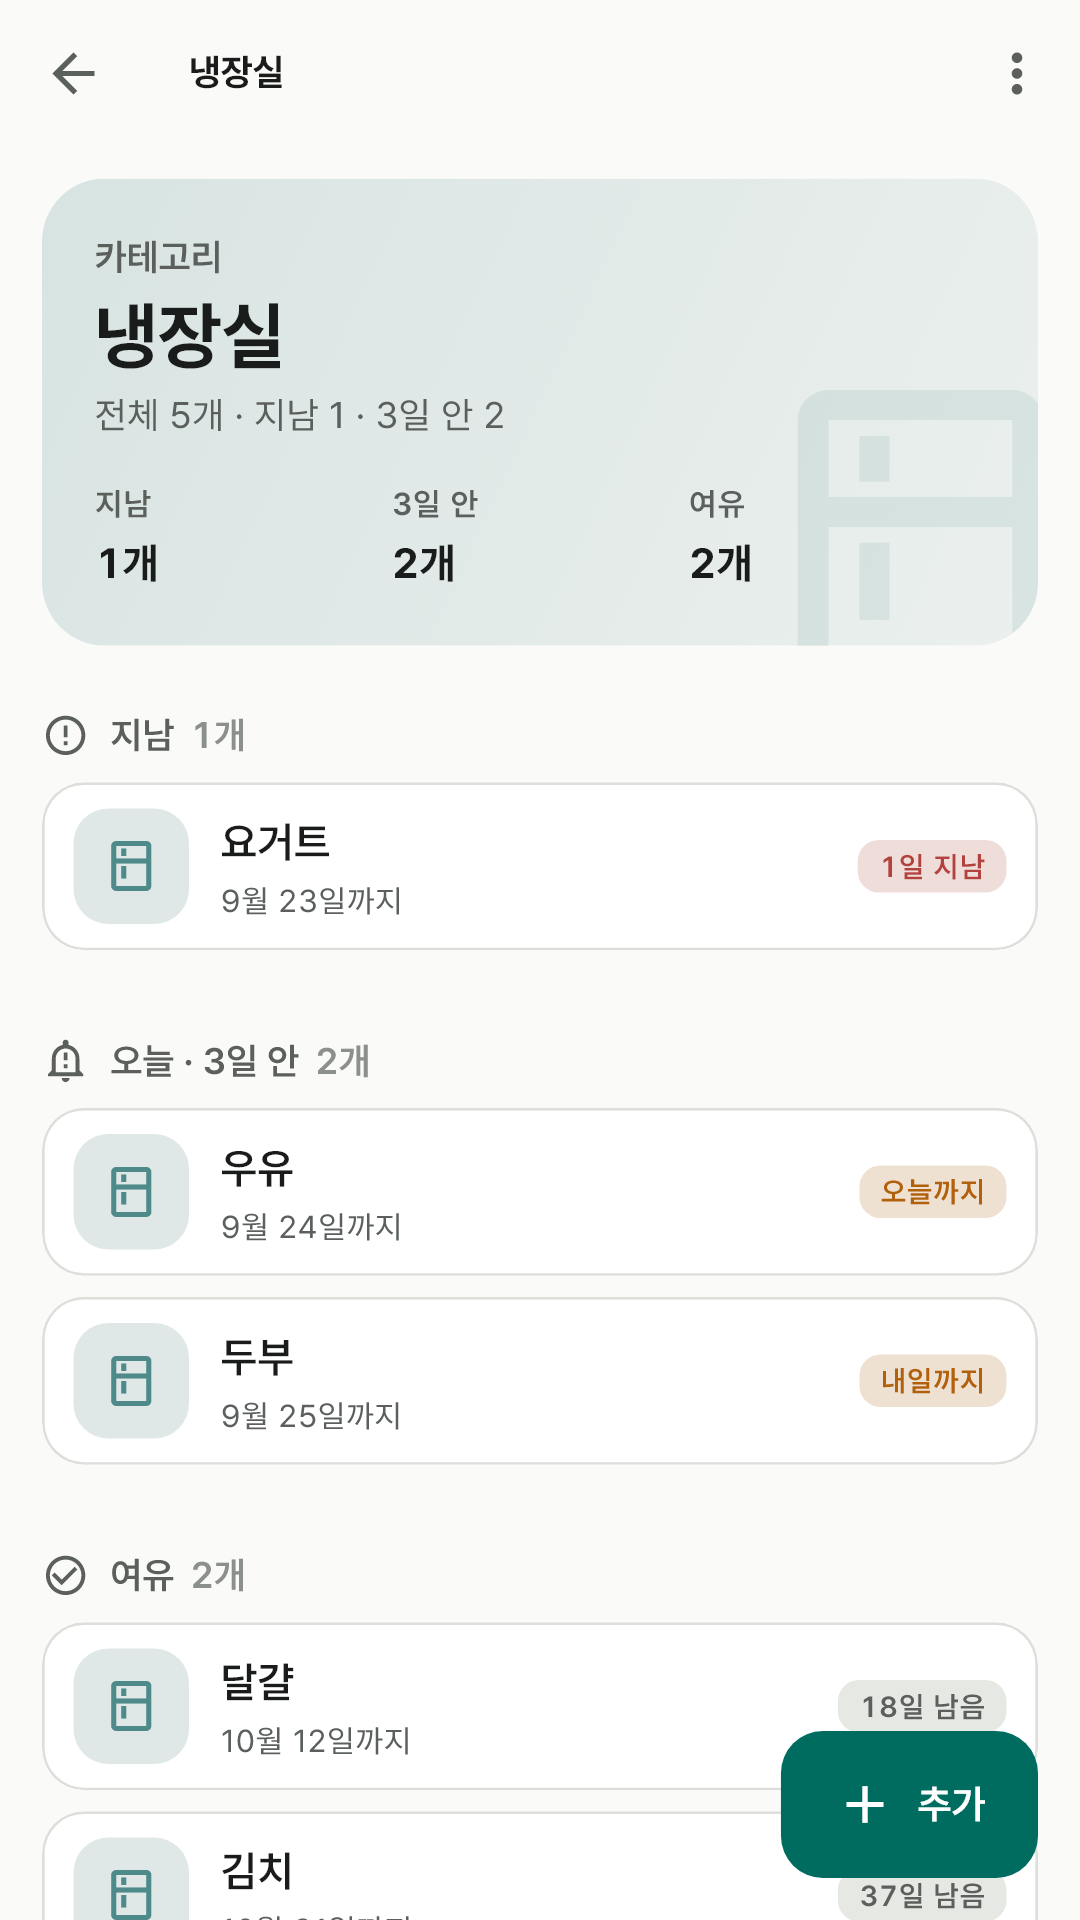
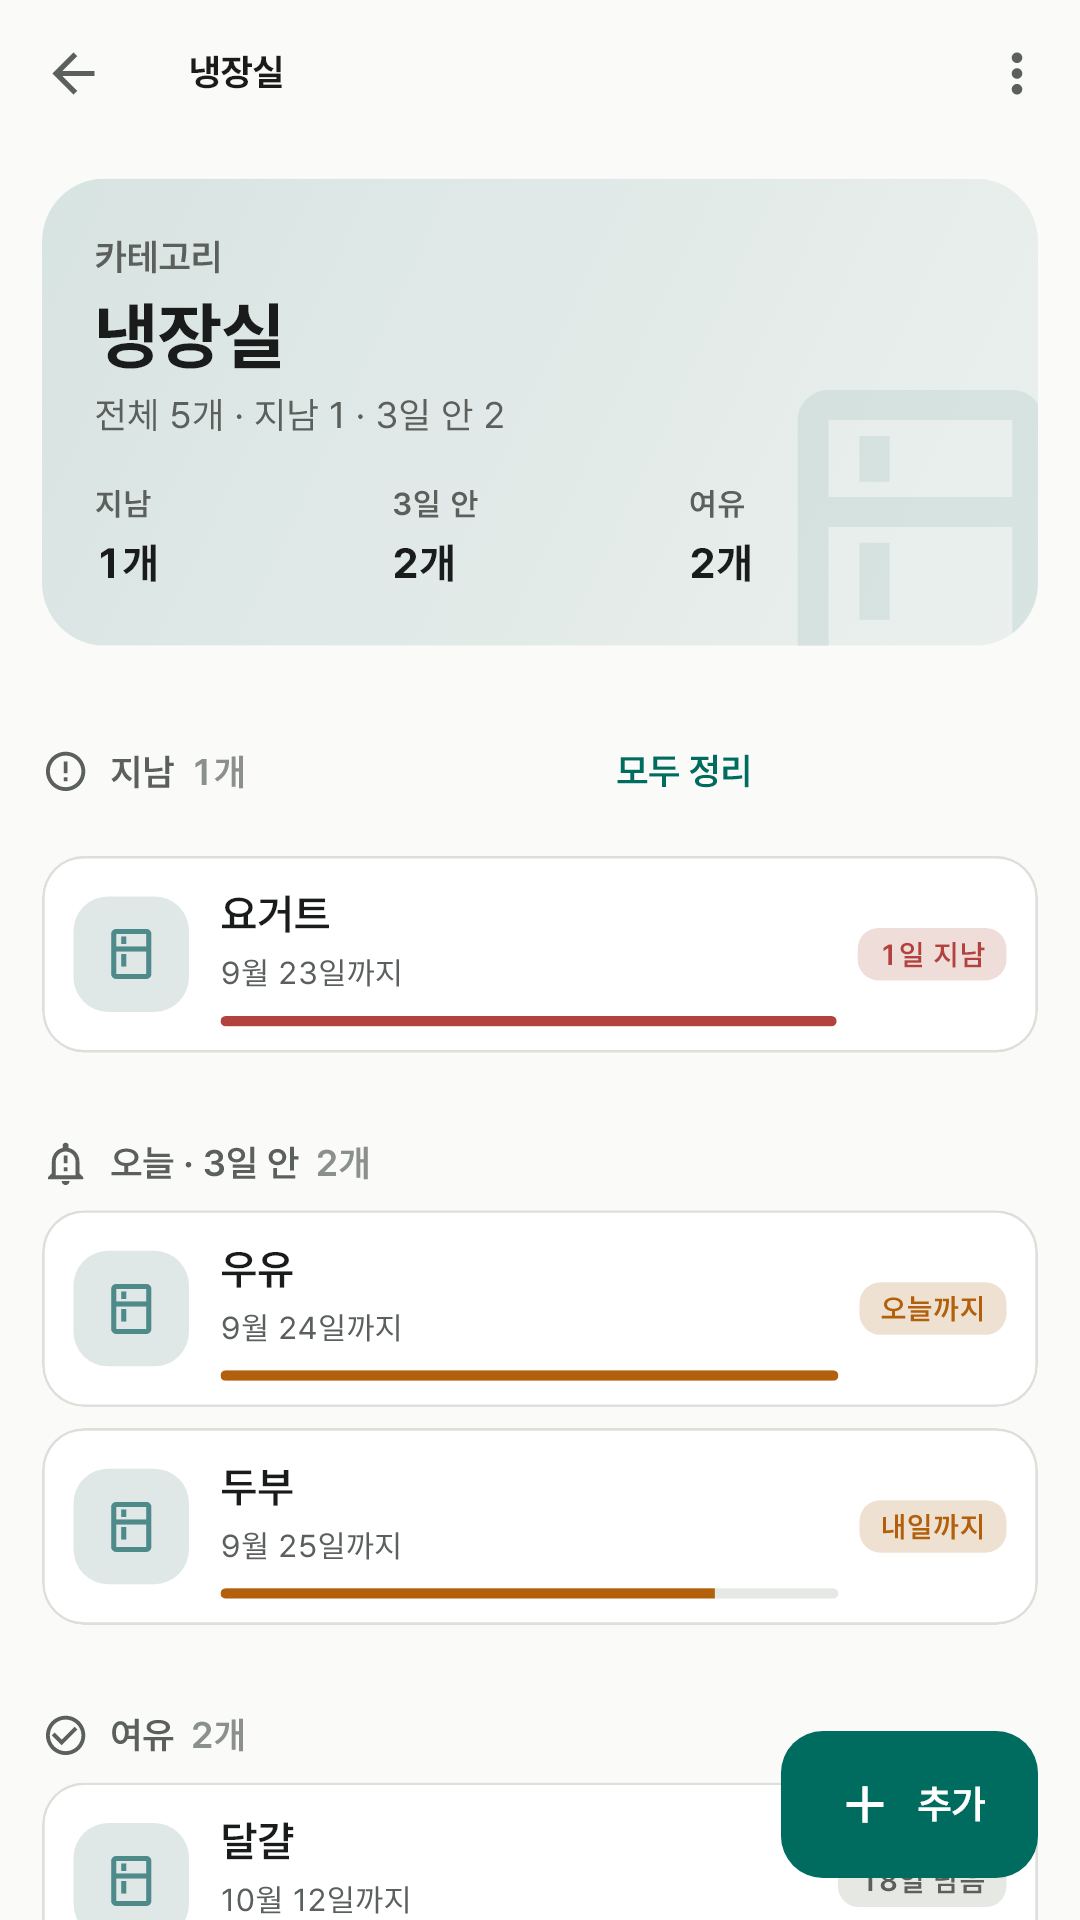
유통기한: 전면 개선에 맞춰 소개·방침(정리한 것 기록) 갱신, 스크린샷 6장 교체

diff --git a/expiry/privacy.html b/expiry/privacy.html
@@ -1,9 +1,9 @@
 <!doctype html>
 <html lang="ko"><head><meta charset="utf-8"><meta name="viewport" content="width=device-width,initial-scale=1"><title>앱이소 유통기한 개인정보처리방침</title>
 <style>body{font:16px/1.8 system-ui,sans-serif;max-width:720px;margin:auto;padding:40px 24px;color:#20312b;background:#fafaf8}h1{font-size:28px}h2{font-size:20px;margin-top:32px}a{color:#00796b}</style></head><body>
-<h1>앱이소 유통기한 개인정보처리방침</h1><p>시행일: 2026년 9월 23일</p>
-<h2>1. 기기에 저장하는 정보</h2><p>사용자가 직접 입력한 항목의 이름·카테고리·날짜·교체 주기·메모, 카테고리의 이름·아이콘·색, 최근 등록한 이름, 알림 설정(사용 여부·시각·며칠 전부터)과 화면 테마 설정을 앱 전용 저장소에 보관합니다. 이 정보는 남은 날짜를 보여 주고 알림을 잡는 데만 씁니다. 개발자 서버가 없으며 입력한 내용을 개발자에게 전송하지 않습니다. 가입, 로그인, 광고, 결제, 분석·크래시 수집 SDK를 사용하지 않고 인터넷 권한도 요청하지 않습니다.</p>
+<h1>앱이소 유통기한 개인정보처리방침</h1><p>시행일: 2026년 9월 23일 · 개정: 2026년 9월 25일</p>
+<h2>1. 기기에 저장하는 정보</h2><p>사용자가 직접 입력한 항목의 이름·카테고리·날짜·교체 주기·메모, 카테고리의 이름·아이콘·색, 최근 등록한 이름, 목록에서 뺀(정리한) 항목의 기록(이름·카테고리·날짜·정리한 날, 최대 300개·1년), 알림 설정(사용 여부·시각·며칠 전부터)과 화면 테마 설정을 앱 전용 저장소에 보관합니다. 이 정보는 남은 날짜를 보여 주고 알림을 잡고 정리한 것을 다시 등록하는 데만 씁니다. 개발자 서버가 없으며 입력한 내용을 개발자에게 전송하지 않습니다. 가입, 로그인, 광고, 결제, 분석·크래시 수집 SDK를 사용하지 않고 인터넷 권한도 요청하지 않습니다.</p>
 <h2>2. 권한</h2><p>이 앱은 알림 권한(POST_NOTIFICATIONS), 재부팅 후 알림 예약을 복원하기 위한 권한(RECEIVE_BOOT_COMPLETED), 알림이 올 때 진동을 울리기 위한 권한(VIBRATE)만 사용합니다. 알림은 사용자가 정한 시각에 하루 한 번, 그날 만료되거나 곧 만료되는 항목의 이름을 기기 안에서만 표시합니다. 정확한 알람 권한은 요청하지 않으며, 연락처·위치·사진·마이크·저장소 등 다른 권한은 쓰지 않습니다. 알림 권한을 거절해도 알림을 제외한 모든 기능을 쓸 수 있습니다.</p>
-<h2>3. 백업과 삭제</h2><p>Android 자동 백업이 켜져 있으면 앱 데이터가 사용자 본인의 Google 계정 백업에 포함될 수 있습니다. 백업은 Android 플랫폼 기능이며 개발자는 그 내용을 받지 않습니다. 옵션의 [모두 지우고 처음부터]로 항목과 카테고리를 포함한 모든 데이터를 앱 안에서 직접 삭제할 수 있고, 앱 제거 또는 데이터 삭제 시에도 삭제됩니다.</p>
+<h2>3. 백업과 삭제</h2><p>Android 자동 백업이 켜져 있으면 앱 데이터가 사용자 본인의 Google 계정 백업에 포함될 수 있습니다. 백업은 Android 플랫폼 기능이며 개발자는 그 내용을 받지 않습니다. 정리한 것의 기록은 옵션의 [정리한 것]에서 한 개씩 또는 전부 지울 수 있고, 옵션의 [모두 지우고 처음부터]로 항목·카테고리·기록을 포함한 모든 데이터를 앱 안에서 직접 삭제할 수 있으며, 앱 제거 또는 데이터 삭제 시에도 삭제됩니다.</p>
 <h2>4. 외부 링크</h2><p>소개 페이지, 온라인 개인정보처리방침과 문의 메일은 사용자가 누를 때 외부 브라우저 또는 메일 앱에서 열립니다. 외부 서비스에는 해당 서비스의 정책이 적용됩니다.</p>
 <h2>5. 문의</h2><p><a href="mailto:appisoLabs@gmail.com">appisoLabs@gmail.com</a></p></body></html>

diff --git a/expiry/index.html b/expiry/index.html
@@ -62,12 +62,13 @@
 
 <h2>무엇을 하나요</h2>
 <ul>
-  <li><strong>오늘 챙길 것</strong> — 홈을 열면 지난 것·오늘까지·며칠 안에 끝나는 것이 날짜순으로 모여요. 빨강은 지난 것, 노랑은 임박이에요.</li>
+  <li><strong>오늘 챙길 것</strong> — 홈을 열면 지난 것·오늘까지·며칠 안에 끝나는 것이 날짜순으로 모여요. 빨강은 지난 것, 노랑은 임박, 카드의 막대가 얼마나 지났는지 보여줘요.</li>
+  <li><strong>전체 항목</strong> — 맨 위 면을 누르면 모든 항목이 지남·오늘까지·7일 안·30일 안·나중에로 나뉘어 보여요. "다음 주에 뭐가 끝나지?"에 답해요.</li>
   <li><strong>카테고리</strong> — 냉장실·냉동실·실온·화장품·약·필터가 기본이고, "아이 간식"처럼 내 집에 맞게 더 만들어요.</li>
-  <li><strong>빠른 등록</strong> — 우유·달걀·공기청정기 필터·선크림 같은 것은 칩 하나로 이름·날짜·교체 주기가 채워져요. 최근에 넣은 것은 그때 기간 그대로요.</li>
+  <li><strong>빠른 등록</strong> — 우유·달걀·공기청정기 필터·선크림 같은 것은 칩 하나로 이름·날짜·교체 주기가 채워져요. 최근에 넣은 것은 그때 기간 그대로, [전체]에서 백여 개를 카테고리별로 훑어요.</li>
   <li><strong>교체 주기</strong> — 필터·칫솔은 [교체했어요] 한 번이면 다음 날짜가 저절로 잡혀요.</li>
   <li><strong>하루 한 번 알림</strong> — 정한 시각에 "오늘까지 2개 · 곧 만료 1개"처럼 하루 하나로 와요.</li>
-  <li><strong>다 썼어요</strong> — 카드를 왼쪽으로 밀면 끝. 실수하면 되돌리기.</li>
+  <li><strong>다 썼어요</strong> — 카드를 왼쪽으로 밀면 끝. 실수하면 되돌리기. 지난 것은 한 번에 정리하고, 정리한 것은 달별로 남아 다시 등록할 수 있어요.</li>
 </ul>
 
 <div class="shots">
